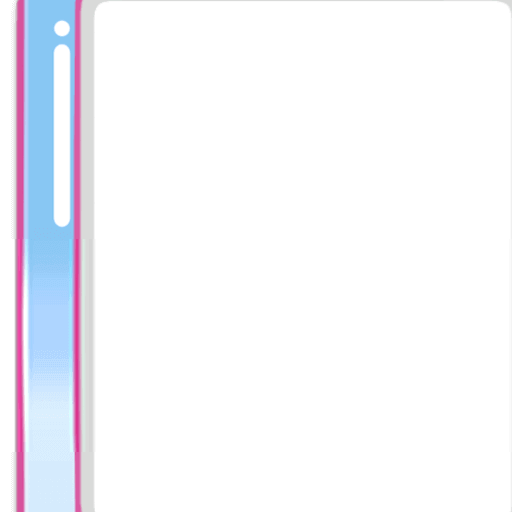
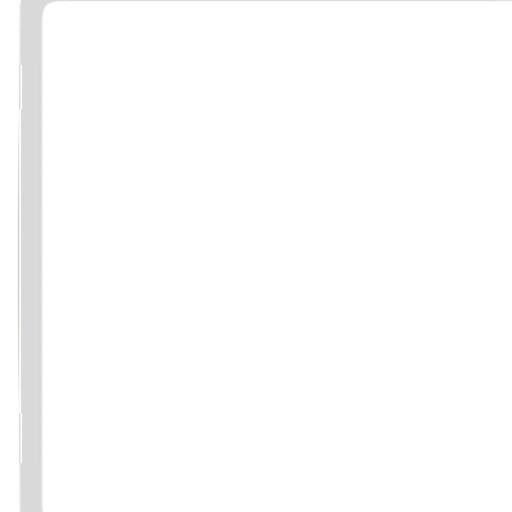
panel divider

Changed region(s): [[0.0, 0.0, 0.1875, 1.0], [0.9688, 0.0, 1.0, 0.0312]]

diff --git a/DressupGame/src/Scripts/Minigame/MiniGameManager.js b/DressupGame/src/Scripts/Minigame/MiniGameManager.js
@@ -285,6 +285,7 @@ export class MiniGameManager {
         scene.statPanelContainer?.destroy();
         scene.applyMakeUpContainer?.destroy();
         scene.sidePanel?.destroy();
+        scene.panelDivider?.destroy();
         scene.categorySidePanel?.destroy();
         this.backButton?.destroy();
         scene.randomizeButton?.destroy();
@@ -940,10 +941,11 @@ export class MiniGameManager {
 
         this.scene.sidePanel.layout();
 
-        scene.flower2 = scene.add.image(layout.sidePanel.x - 300, layout.sidePanel.y - 400, 'flowers').setScale(0.5).setDepth(99)
-        scene.flower2.angle = 180;
-        scene.flower3 = scene.add.image(layout.sidePanel.x - 300, layout.sidePanel.y + 400, 'flowers').setScale(0.5).setDepth(99)
+        scene.panelDivider = scene.add.nineslice(layout.sidePanel.x - 350, layout.sidePanel.y, 'sidePanelDivider', '', 100, 1080, 60, 60, 40, 60).setDepth(99);
 
+        scene.flower2 = scene.add.image(layout.sidePanel.x - 325, layout.sidePanel.y - 400, 'flowers').setScale(0.5).setDepth(99)
+        scene.flower2.angle = 180;
+        scene.flower3 = scene.add.image(layout.sidePanel.x - 325, layout.sidePanel.y + 400, 'flowers').setScale(0.5).setDepth(99)
 
         if (this.scene.state !== GameState.MAKEUP) return;
         const categoryButtons = this.scene.state === GameState.MAKEUP ? this.scene.makeUpCategoryButtons : null;
@@ -1171,18 +1173,18 @@ export class MiniGameManager {
             confettiKeys.forEach(key => {
                 allEmitters.push(this.scene.add.particles(screenWidth / 2, screenHeight, key, {
                     ...burstConfig,
-                    rotate: { 
+                    rotate: {
                         onEmit: () => { return Math.random() * 360; } // Mulai dari sudut acak
                     },
-                    
-                    scaleX: { 
+
+                    scaleX: {
                         onEmit: () => { return (Math.random() > 0.5) ? 1 : -1; }, // Mulai dari sisi depan atau belakang
                         ease: 'Sine.easeInOut',
                         yoyo: true,
                         repeat: -1,
                         duration: Math.random() * 500 + 250 // Setiap partikel berputar dengan kecepatan berbeda
                     },
-                
+
                     // 3. Simulasi Rotasi Sumbu X (menipis)
                     // Ini akan membuat partikel terlihat "menipis" seolah berputar ke arah kita
                     scaleY: {

diff --git a/DressupGame/src/Scripts/AssetLoader.js b/DressupGame/src/Scripts/AssetLoader.js
@@ -107,6 +107,7 @@ export default class AssetLoader {
     scene.load.image('sidePanel', 'Asset/UI/New/Wardrobe_Base.png');
     scene.load.image('sidePanelPortrait', 'Asset/UI/New/Wardrobe_Base_portrait.png');
     scene.load.image('sidePanelLine', 'Asset/UI/Panel_Line.png');
+    scene.load.image('sidePanelDivider', 'Asset/UI/New/Wardrobe_Divider.png');
 
     scene.load.image('dressIcon', 'Asset/UI/Dress_Icon.png');
     scene.load.image('outerIcon', 'Asset/UI/Coat_Icon.png');
